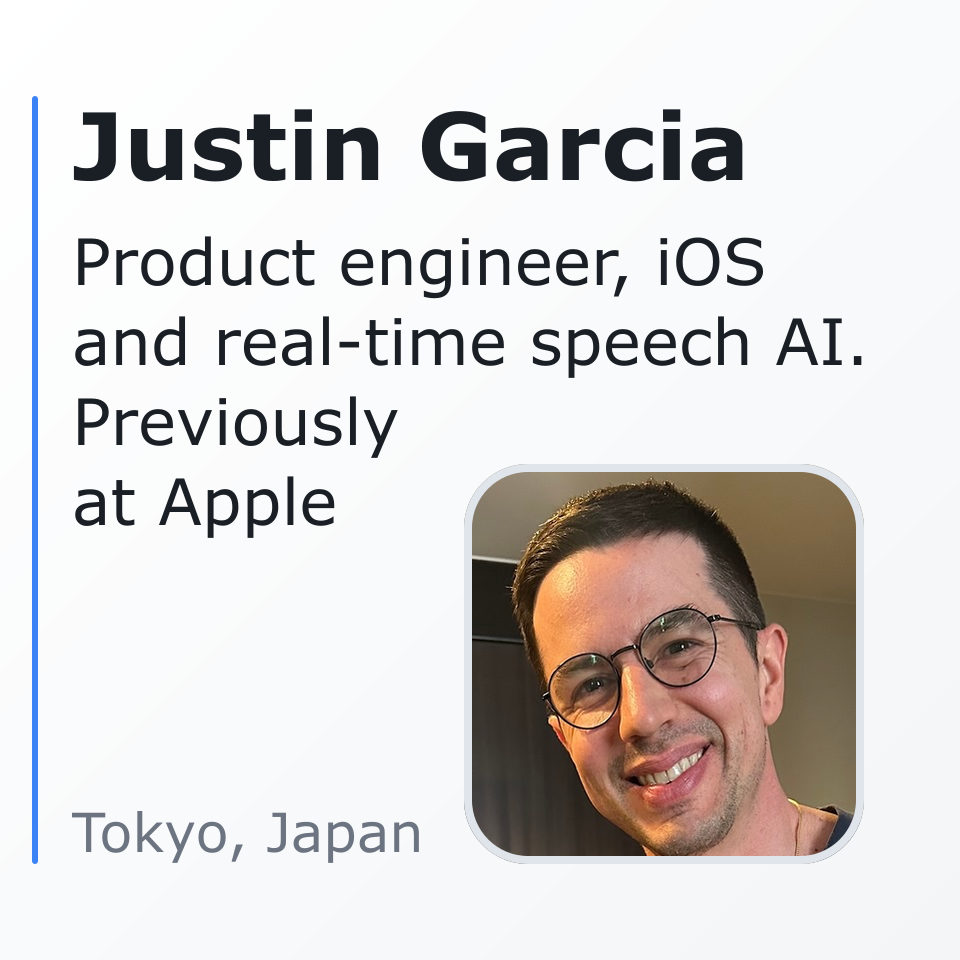
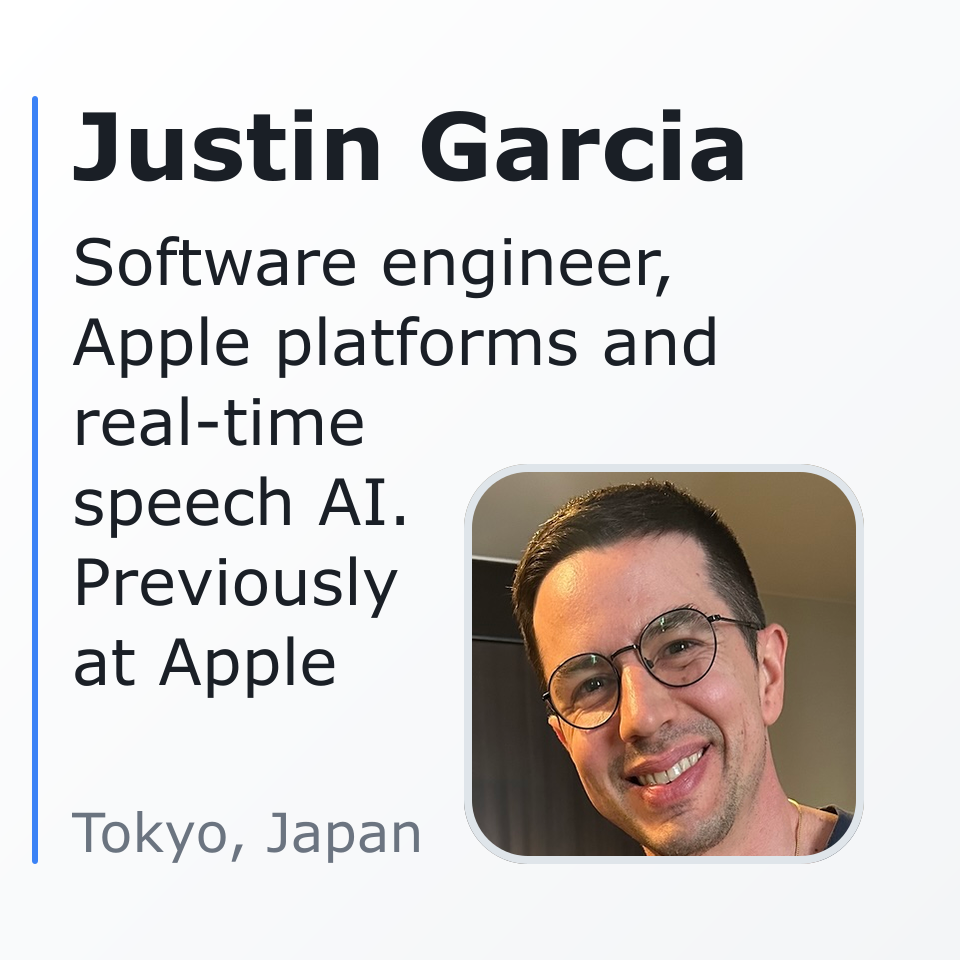
tweaks

Changed region(s): [[0.0625, 0.25, 0.8125, 0.7188], [0.8125, 0.3125, 0.875, 0.4062]]

diff --git a/resume.html b/resume.html
@@ -23,27 +23,27 @@
       display: none;
     }
   </style>
-  <title>Justin Garcia: Product Engineer, iOS and Speech AI</title>
+  <title>Justin Garcia: Software engineer, Apple platforms and real-time speech AI</title>
   <link rel="icon" href="assets/karui-favicon.png?v=1" type="image/png">
   <link href='style.css?v=133' rel='stylesheet'>
   <meta name="viewport" content="width=device-width, initial-scale=1">
   <link rel="canonical" href="https://onemorething.tokyo/resume.html">
   <meta name="description" content="Resume of Justin Garcia, a Tokyo-based software engineer building iOS and real-time speech AI products at Kotoba, previously at Apple, Procore, and iHeartMedia.">
-  <meta property="og:title" content="Justin Garcia: iOS and speech AI products">
+  <meta property="og:title" content="Justin Garcia: Software engineer, Apple platforms and real-time speech AI">
   <meta property="og:description" content="Tokyo-based software engineer building iOS and real-time speech AI products at Kotoba, previously at Apple.">
   <meta property="og:type" content="profile">
   <meta property="og:url" content="https://onemorething.tokyo/resume.html">
-  <meta property="og:image" content="https://onemorething.tokyo/assets/resume-social.png?v=8">
-  <meta property="og:image:secure_url" content="https://onemorething.tokyo/assets/resume-social.png?v=8">
+  <meta property="og:image" content="https://onemorething.tokyo/assets/resume-social.png?v=9">
+  <meta property="og:image:secure_url" content="https://onemorething.tokyo/assets/resume-social.png?v=9">
   <meta property="og:image:type" content="image/png">
   <meta property="og:image:width" content="960">
   <meta property="og:image:height" content="960">
-  <meta property="og:image:alt" content="Justin Garcia, iOS and real-time speech AI engineer at Kotoba in Tokyo">
+  <meta property="og:image:alt" content="Justin Garcia, software engineer for Apple platforms and real-time speech AI, in Tokyo">
   <meta name="twitter:card" content="summary_large_image">
-  <meta name="twitter:title" content="Justin Garcia: iOS and speech AI products">
+  <meta name="twitter:title" content="Justin Garcia: Software engineer, Apple platforms and real-time speech AI">
   <meta name="twitter:description" content="Tokyo-based software engineer building iOS and real-time speech AI products at Kotoba, previously at Apple.">
-  <meta name="twitter:image" content="https://onemorething.tokyo/assets/resume-social.png?v=8">
-  <meta name="twitter:image:alt" content="Justin Garcia, iOS and real-time speech AI engineer at Kotoba in Tokyo">
+  <meta name="twitter:image" content="https://onemorething.tokyo/assets/resume-social.png?v=9">
+  <meta name="twitter:image:alt" content="Justin Garcia, software engineer for Apple platforms and real-time speech AI, in Tokyo">
   <script type="application/ld+json">
   {
     "@context": "https://schema.org",
@@ -51,7 +51,7 @@
     "@id": "https://onemorething.tokyo/resume.html#profile",
     "url": "https://onemorething.tokyo/resume.html",
     "name": "Justin Garcia — Resume",
-    "dateModified": "2026-09-14",
+    "dateModified": "2026-10-26",
     "mainEntity": {
       "@id": "https://onemorething.tokyo/#justin-garcia"
     }
@@ -67,9 +67,9 @@
     <header class="contact-info">
       <h1>Justin Garcia</h1>
       <div
-        data-label-en="iOS and real-time speech AI products"
-        data-label-ja="iOSとリアルタイム音声AIプロダクト"
-      >iOS and real-time speech AI products</div>
+        data-label-en="Software engineer, Apple platforms and real-time speech AI"
+        data-label-ja="ソフトウェアエンジニア｜Appleプラットフォーム・リアルタイム音声AI"
+      >Software engineer, Apple platforms and real-time speech AI</div>
       <div
         data-label-en="<a href='index.html'>Portfolio</a> | <a href='mailto:justin.garcia@gmail.com'>Email</a> | <a href='https://github.com/littlebobert'>GitHub</a> | <a href='https://www.linkedin.com/in/garciajustin/'>LinkedIn</a>"
         data-label-ja="<a href='index.html'>ポートフォリオ</a> | <a href='mailto:justin.garcia@gmail.com'>メール</a> | <a href='https://github.com/littlebobert'>GitHub</a> | <a href='https://www.linkedin.com/in/garciajustin/'>LinkedIn</a>"
@@ -104,9 +104,9 @@
           >Senior Software Engineer</div>
           <div
             class="overview"
-            data-label-en="I do product engineering at <a href='https://site.kotoba.tech'>Kotoba</a>, a frontier speech AI company."
-            data-label-ja="最先端の音声AI企業<a href='https://site.kotoba.tech'>Kotoba</a>でプロダクトエンジニアリングに携わっています。"
-          >I do product engineering at <a href="https://site.kotoba.tech">Kotoba</a>, a frontier speech AI company.</div>
+            data-label-en="I build the apps and integrations that put <a href='https://site.kotoba.tech'>Kotoba</a>’s speech translation models in front of customers."
+            data-label-ja="<a href='https://site.kotoba.tech'>Kotoba</a>の音声翻訳モデルを顧客に届けるアプリと連携機能を開発しています。"
+          >I build the apps and integrations that put <a href="https://site.kotoba.tech">Kotoba</a>’s speech translation models in front of customers.</div>
           <ul class="accomplishments">
             <li
               data-label-en="Built the first version of live-translation bots for Zoom, Google Meet, and Teams, helping drive Kotoba’s pivot to enterprise sales"
@@ -117,9 +117,9 @@
               data-label-ja="<a href='https://apps.apple.com/us/app/kotoba-voice-translation/id6740851285'>低遅延の音声翻訳アプリ</a>へのサブスクリプション追加を支援し、5か月で40万米ドルのARRに到達"
             >Helped build subscriptions into <a href="https://apps.apple.com/us/app/kotoba-voice-translation/id6740851285">Kotoba’s low-latency speech translation app</a>, which reached $400k USD ARR in 5 months</li>
             <li
-              data-label-en="Helped ship Kotoba’s on-device Japanese text-to-speech for Meta. Improved inference performance and memory footprint"
-              data-label-ja="KotobaのMeta向けオンデバイス日本語テキスト読み上げのリリースを支援。推論速度とメモリ使用量を改善"
-            >Helped ship Kotoba’s on-device Japanese text-to-speech for Meta. Improved inference performance and memory footprint</li>
+              data-label-en="Helped ship Kotoba’s on-device Japanese text-to-speech for Meta, improving inference speed and memory footprint"
+              data-label-ja="KotobaのMeta向けオンデバイス日本語テキスト読み上げのリリースを支援し、推論速度とメモリ使用量を改善"
+            >Helped ship Kotoba’s on-device Japanese text-to-speech for Meta, improving inference speed and memory footprint</li>
             <li
               data-label-en="Created release automation for iOS, Android, and OTA updates, and automated benchmark runs for new speech-to-speech translation models"
               data-label-ja="iOS、Android、OTAアップデート向けのリリース自動化を構築し、新しい音声対音声翻訳モデルのベンチマーク実行を自動化"
@@ -262,9 +262,9 @@
               data-label-ja="iOS 8で新しくなったSiriのストリーミングアニメーションの大部分を構築"
             >Built most of the Siri streaming animation that was new in iOS 8</li>
             <li
-              data-label-en="Made Cut / Copy / Paste fast enough for the first iPhone (performance tuning)"
-              data-label-ja="初代iPhone向けにCut / Copy / Pasteを十分な速度に改善（パフォーマンスチューニング）"
-            >Made Cut / Copy / Paste fast enough for the first iPhone (performance tuning)</li>
+              data-label-en="Made Cut / Copy / Paste fast enough for the original iPhone hardware in iPhone OS 3 (performance tuning)"
+              data-label-ja="iPhone OS 3で、初代iPhoneのハードウェアでもCut / Copy / Pasteが十分な速度で動くよう改善（パフォーマンスチューニング）"
+            >Made Cut / Copy / Paste fast enough for the original iPhone hardware in iPhone OS 3 (performance tuning)</li>
             <li
               data-label-en="Maintained WebKit’s WYSIWYG editing engine (which powers Mail) for 3 years"
               data-label-ja="WebKitのWYSIWYG編集エンジン（Mailで使用）を3年間保守"
@@ -348,7 +348,7 @@
       document.documentElement.lang = currentLanguage;
       languageToggle.textContent = currentLanguage === 'ja' ? 'English' : '日本語';
       languageToggle.setAttribute('aria-label', currentLanguage === 'ja' ? 'Switch to English' : '日本語に切り替える');
-      document.title = currentLanguage === 'ja' ? 'Justin Garcia の履歴書' : 'Justin Garcia: Product Engineer, iOS and Speech AI';
+      document.title = currentLanguage === 'ja' ? 'Justin Garcia の履歴書' : 'Justin Garcia: Software engineer, Apple platforms and real-time speech AI';
       localStorage.setItem('site-language', currentLanguage);
     }
 
